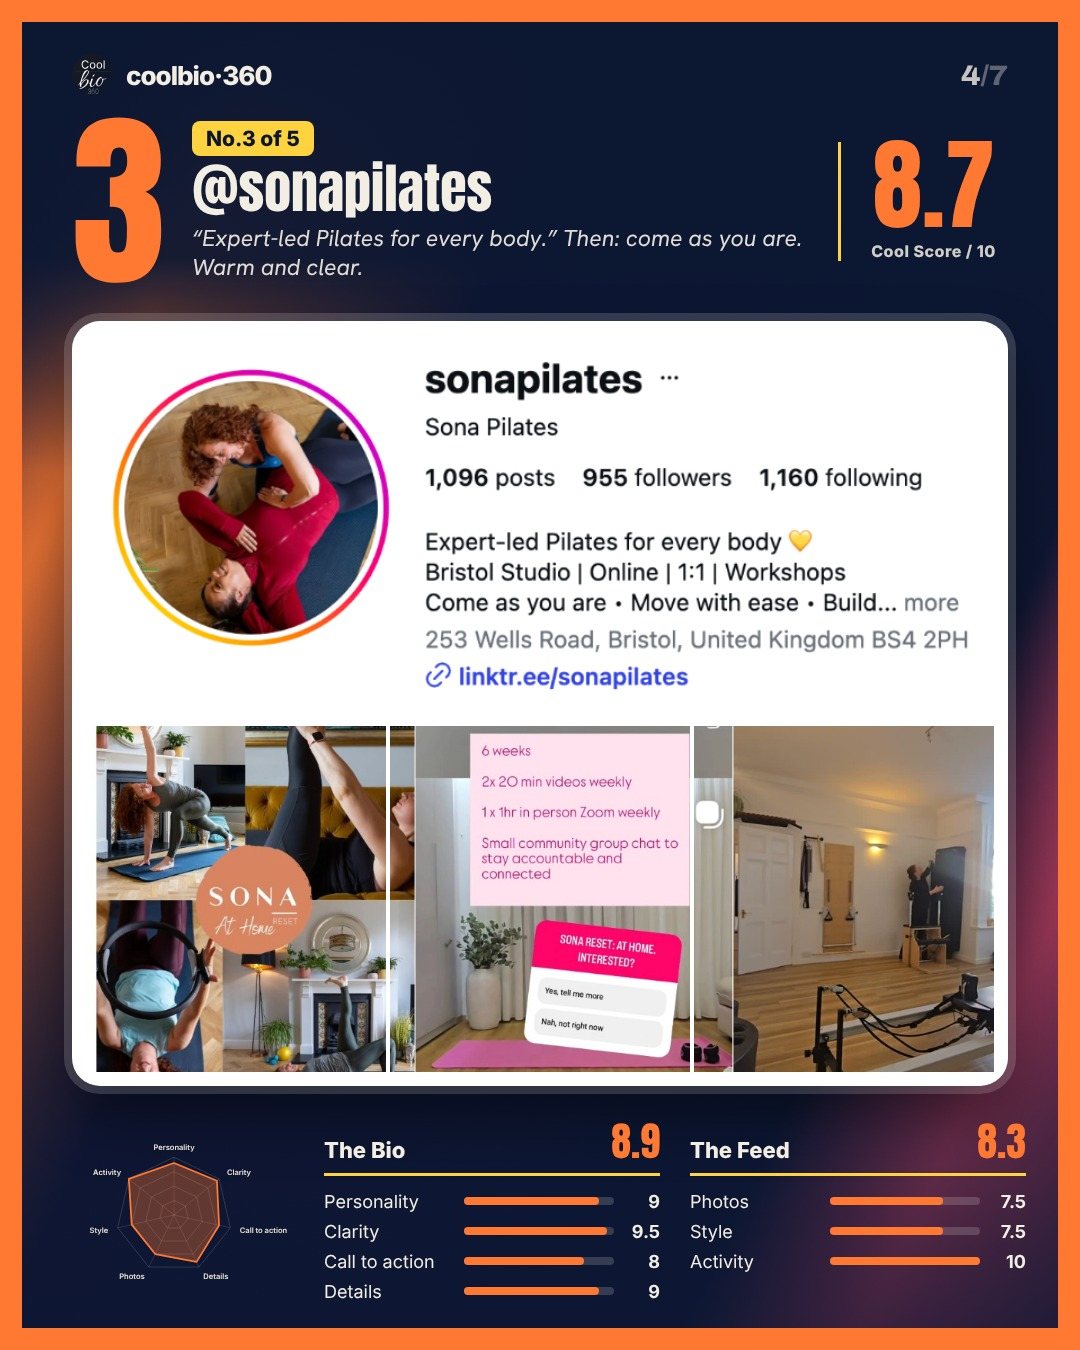
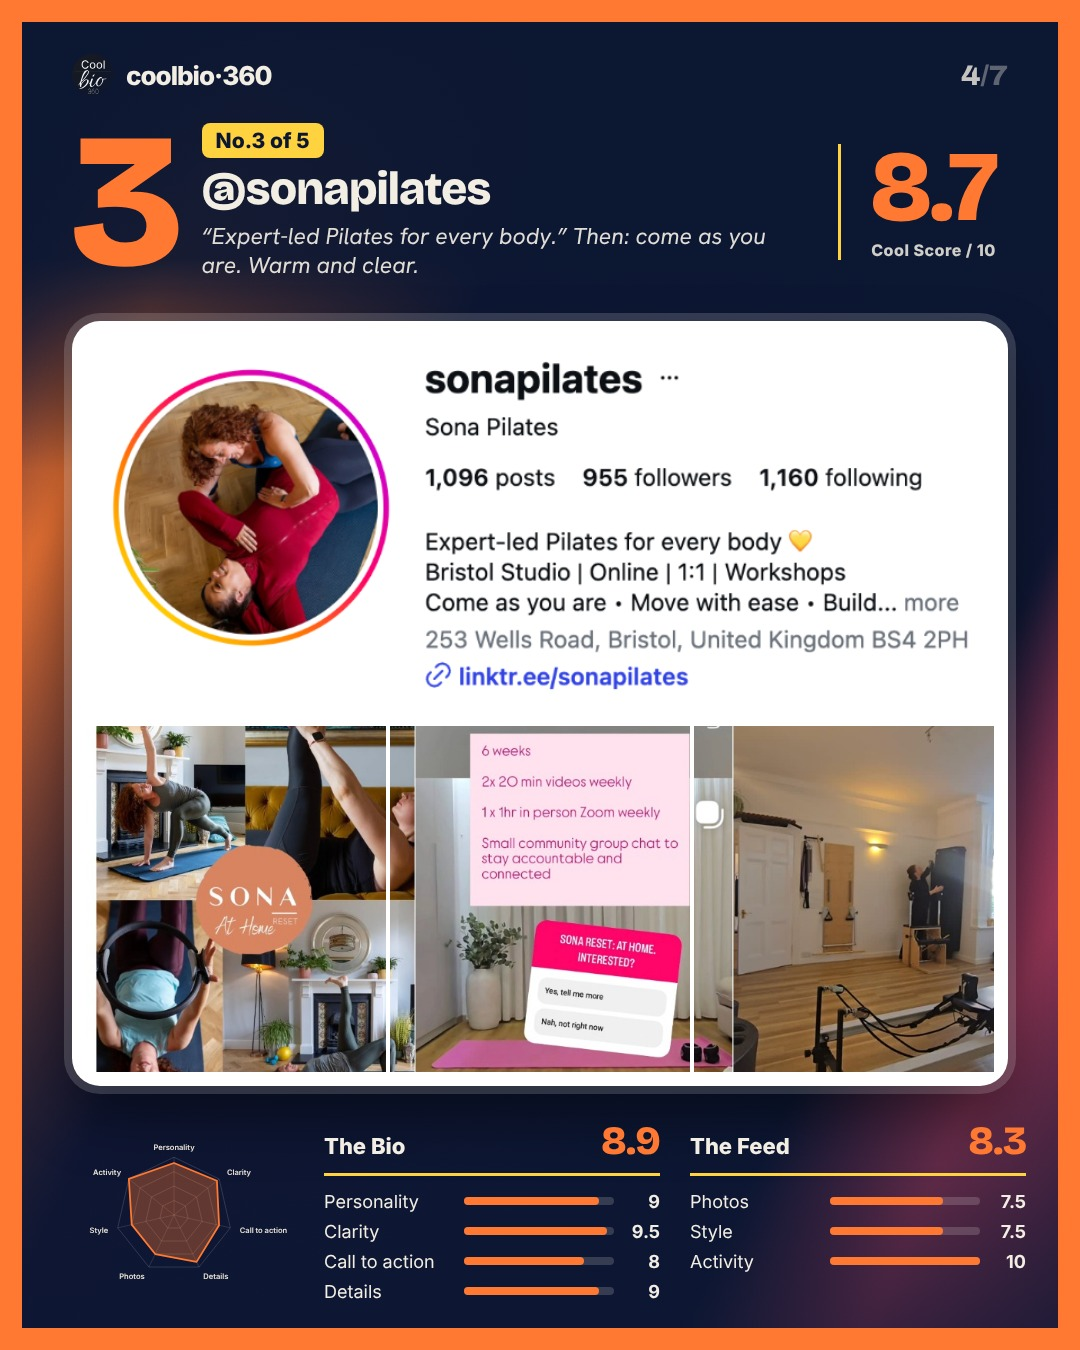
Classifiche in Bricolage Grotesque
Claude-Session: https://claude.ai/code/session_01JL8RT6ZiLuziuRoxLPPpLq

diff --git a/tools/v2/gen_top8.py b/tools/v2/gen_top8.py
@@ -1,5 +1,5 @@
 # Classifiche Top 5, versione A rifinita: blu notte con gradiente panoramico più deciso (toni analoghi dell'accento),
-# cornice accento attorno, avatar visibili, Anton per numeri e titoli, card con cornice chiara, ragnatela + barre in vetro.
+# cornice accento attorno, avatar visibili, Bricolage Grotesque per numeri e titoli, card con cornice chiara, ragnatela + barre in vetro.
 # Uso: python3 gen_top8.py new/<slug>.json   output in out8/
 import json,sys,os,asyncio
 B=os.path.dirname(os.path.abspath(__file__)); sys.path.insert(0,B+'/../packs')
@@ -7,8 +7,8 @@ import gen_pack6 as P6, gen6_base as V
 from gen6_base import E,NAVY,INK,CREAM,M,W,H,grain,header
 import gen_top6 as T, gen_top_var as TV
 OUT=B+'/out8/'
-EXTRA='<link href="https://fonts.googleapis.com/css2?family=Anton&amp;display=swap" rel="stylesheet">'
-def N(k,size,col,extra=''): return f'<span style="font-family:Anton;font-size:{size}px;line-height:.86;color:{col};{extra}">{k}</span>'
+EXTRA='<link href="https://fonts.googleapis.com/css2?family=Anton&amp;family=Bricolage+Grotesque:opsz,wdth,wght@12..96,75..100,400..800&amp;display=swap" rel="stylesheet">'
+def N(k,size,col,extra=''): return f'<span style="font-family:Bricolage Grotesque,sans-serif;font-weight:800;letter-spacing:-.02em;font-size:{size}px;line-height:.86;color:{col};{extra}">{k}</span>'
 def page(b,acc):
     h=P6.page(b,NAVY).replace('</head>',EXTRA+'</head>',1)
     frame=f'<div style="position:absolute;inset:0;border:22px solid {acc};z-index:9;pointer-events:none"></div>'
@@ -22,16 +22,16 @@ def cover(d):
     A,A2=d['accent'],d['A2']; P={p['rank']:p for p in d['people']}
     def pod(r,x,y,sz):
         return f'''<div class="z" style="position:absolute;left:{x}px;top:{y}px;width:{sz}px;text-align:center">
-<div style="width:{sz}px;height:{sz}px;border-radius:50%;background:url({T.avatar(P[r]['h'])}) center/cover;box-shadow:0 0 0 7px {d['x'] if r==1 else 'rgba(243,238,228,.35)'},0 30px 60px rgba(0,0,0,.5)"></div>{('<div style="position:absolute;left:50%;top:-30px;transform:translateX(-50%) rotate(-4deg);background:'+d['x']+';color:#0B1631;font-family:Anton;font-size:30px;padding:6px 18px;border-radius:10px;white-space:nowrap">THE WINNER</div>') if r==1 else ''}
-<div style="margin-top:22px;display:flex;justify-content:center;align-items:baseline;gap:14px">{N(r,int(sz*.5),d['x'] if r==1 else CREAM)}<span style="font-family:Anton;font-size:{int(sz*.2)}px;color:{CREAM};opacity:.85">{P[r]['score']}</span></div></div>'''
+<div style="width:{sz}px;height:{sz}px;border-radius:50%;background:url({T.avatar(P[r]['h'])}) center/cover;box-shadow:0 0 0 7px {d['x'] if r==1 else 'rgba(243,238,228,.35)'},0 30px 60px rgba(0,0,0,.5)"></div>{('<div style="position:absolute;left:50%;top:-30px;transform:translateX(-50%) rotate(-4deg);background:'+d['x']+';color:#0B1631;font-family:Bricolage Grotesque,sans-serif;font-weight:800;letter-spacing:-.02em;font-size:24px;padding:6px 18px;border-radius:10px;white-space:nowrap">THE WINNER</div>') if r==1 else ''}
+<div style="margin-top:22px;display:flex;justify-content:center;align-items:baseline;gap:14px">{N(r,int(sz*.5),d['x'] if r==1 else CREAM)}<span style="font-family:Bricolage Grotesque,sans-serif;font-weight:800;letter-spacing:-.02em;font-size:{int(sz*.2)}px;color:{CREAM};opacity:.85">{P[r]['score']}</span></div></div>'''
     b=f'''{grain()}{header(1,7,CREAM)}
 <div class="z" style="position:absolute;left:{M}px;right:{M}px;top:150px;color:{CREAM}">
 <div class="sub" style="font-size:30px;color:{CREAM}">The bio issue, vol. {d['vol']}</div>
-<div style="font-family:Anton;font-size:156px;line-height:.9;text-transform:uppercase;margin-top:10px">The 5 best<br><span style="color:{d['strong']}">{under(E(d['word']),d['x'])} bios</span></div>
+<div style="font-family:Bricolage Grotesque,sans-serif;font-weight:800;letter-spacing:-.02em;font-size:120px;line-height:.92;text-transform:uppercase;margin-top:10px">The 5 best<br><span style="color:{d['strong']}">{under(E(d['word']),d['x'])} bios</span></div>
 <div class="sub" style="font-size:32px;margin-top:18px;opacity:.9">{E(d['sub'])}</div></div>
 {pod(2,M+10,720,250)}{pod(3,W-M-260,760,250)}{pod(1,(W-320)//2,650,320)}
 <div class="z" style="position:absolute;left:50%;bottom:64px;transform:translateX(-50%);display:flex;align-items:center;gap:16px;background:{d['x']};color:{NAVY};border-radius:999px;padding:16px 22px 16px 34px;box-shadow:0 16px 40px rgba(0,0,0,.4);white-space:nowrap">
-<span style="font-family:Anton;font-size:34px;letter-spacing:.5px">SWIPE TO SEE WHO WON</span>
+<span style="font-family:Bricolage Grotesque,sans-serif;font-weight:800;letter-spacing:-.02em;font-size:28px">SWIPE TO SEE WHO WON</span>
 <span style="width:52px;height:52px;border-radius:50%;background:{NAVY};display:flex;align-items:center;justify-content:center"><svg width="26" height="26" viewBox="0 0 24 24"><path d="M5 12h13M13 6l6 6-6 6" fill="none" stroke="{d['x']}" stroke-width="3" stroke-linecap="round" stroke-linejoin="round"/></svg></span></div>'''
     return page(b,d['strong'])
 def statcol(name,vs,ls,S):
@@ -46,7 +46,7 @@ def profile(d,p,i):
 <div style="display:flex;align-items:center;gap:26px;color:{CREAM}">
 {N(p['rank'],190,d['x'] if win else S)}
 <div style="flex:1;min-width:0"><div style="display:inline-block;font-size:21px;font-weight:800;color:{NAVY};background:{d['x']};padding:5px 14px;border-radius:8px">{'THE WINNER 🏆' if win else 'No.'+str(p['rank'])+' of 5'}</div>
-<div style="font-family:Anton;font-size:54px;line-height:1.04;margin-top:4px;word-break:break-all">@{E(p['h'])}</div>
+<div style="font-family:Bricolage Grotesque,sans-serif;font-weight:800;letter-spacing:-.02em;font-size:46px;line-height:1.08;margin-top:6px;word-break:break-all">@{E(p['h'])}</div>
 <div class="sub" style="font-size:23px;line-height:1.28;margin-top:8px;opacity:.92">{E(p['v'])}</div></div>
 <div style="flex:none;width:170px;text-align:center;border-left:3px solid {d['x']};padding-left:18px">{N(p['score'],100,S)}<div style="font-size:16px;font-weight:800;letter-spacing:.5px;margin-top:10px;opacity:.85">Cool Score / 10</div></div></div>
 <div style="flex:1;min-height:0;display:flex;flex-direction:column;background:#fff;border-radius:28px;padding:14px;box-shadow:0 0 0 8px rgba(255,255,255,.16),0 30px 60px rgba(0,0,0,.45)">
@@ -62,7 +62,7 @@ def steal(d):
 <div class="z" style="position:absolute;left:{M}px;right:{M}px;top:130px;bottom:40px;display:flex;flex-direction:column;justify-content:space-between">
 <div style="background:#FFFDF6;border-radius:40px;padding:34px 44px 40px;box-shadow:0 30px 70px rgba(0,0,0,.3);font-family:Inter">
 <div style="display:flex;justify-content:space-between;font-size:28px;color:#E0A800;font-weight:500"><span>‹ Notes</span><span style="font-weight:700">Done</span></div>
-<div style="font-family:Anton;font-size:64px;color:#1c1c1e;margin-top:12px;line-height:1">{under('STEAL',d['x'])} THIS BIO</div>
+<div style="font-family:Bricolage Grotesque,sans-serif;font-weight:800;letter-spacing:-.02em;font-size:56px;color:#1c1c1e;margin-top:12px;line-height:1">{under('STEAL',d['x'])} THIS BIO</div>
 <div class="sub" style="font-size:26px;color:#6b6458;margin-top:8px">Built from what our top 5 have in common</div>
 <div style="margin-top:6px">{rows}</div>
 <div style="margin-top:20px;background:#fff;border:2px solid #ECE6D6;border-radius:24px;padding:18px 24px">
